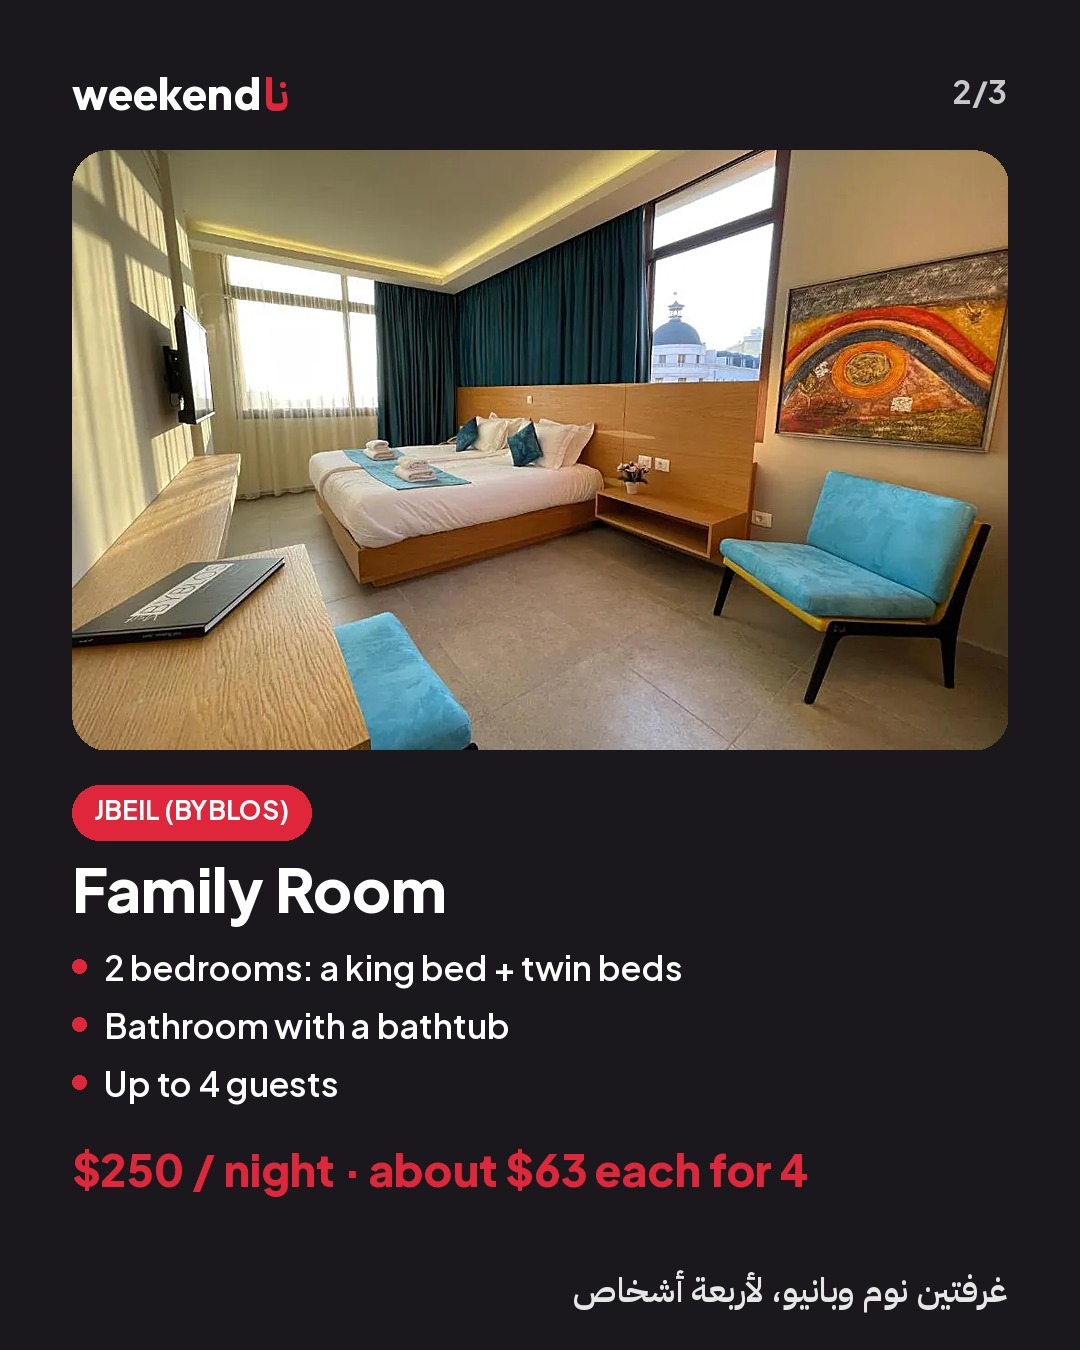
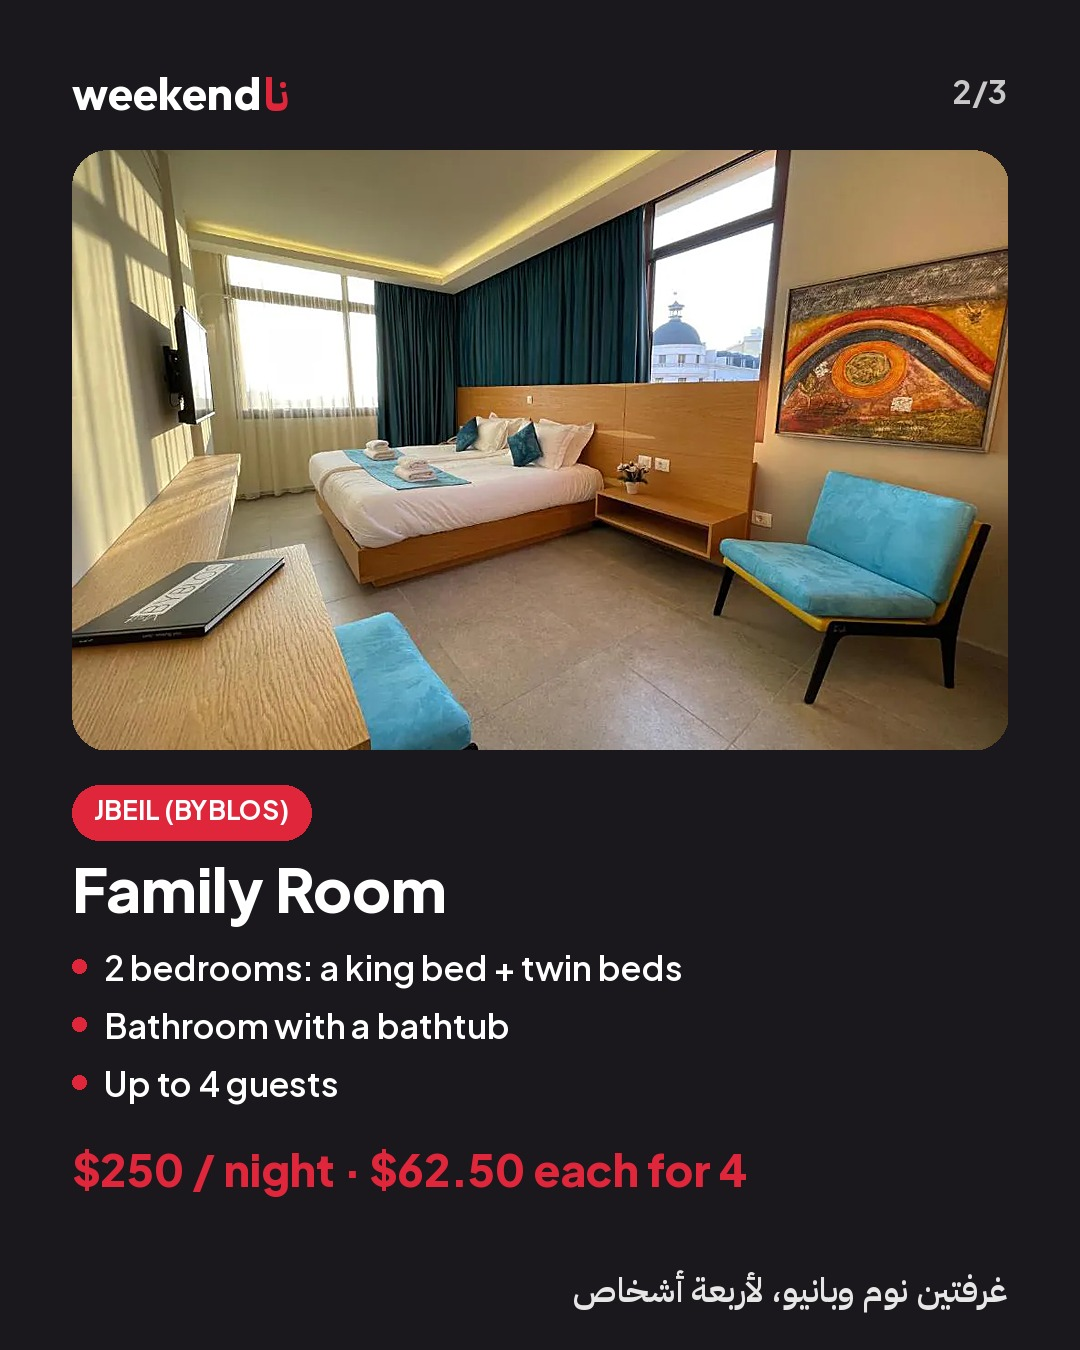
Majestic rooms: exact per-person price ($62.50)
Claude-Session: https://claude.ai/code/session_01QuaNDgCwiNitArRf8zRoH2

Changed region(s): [[0.3361, 0.84, 0.7639, 0.9022]]

diff --git a/tools/examples/make_majestic_rooms.py b/tools/examples/make_majestic_rooms.py
@@ -11,7 +11,7 @@ place_slide(P("45-01"), f"{OUT}/majrooms-2.jpg", 1, 3, "Majestic Room", "Jbeil (
             ["Twin or king-size bed + a sofa bed", "Private balcony", "More space than the Deluxe Room"], "$150 / night",
             "بلكون خاص وكنباية بتصير تخت")
 place_slide(P("46-01"), f"{OUT}/majrooms-3.jpg", 2, 3, "Family Room", "Jbeil (Byblos)",
-            ["2 bedrooms: a king bed + twin beds", "Bathroom with a bathtub", "Up to 4 guests"], "$250 / night · about $63 each for 4",
+            ["2 bedrooms: a king bed + twin beds", "Bathroom with a bathtub", "Up to 4 guests"], "$250 / night · $62.50 each for 4",
             "غرفتين نوم وبانيو، لأربعة أشخاص")
 place_slide(P("47-01"), f"{OUT}/majrooms-4.jpg", 3, 3, "Family Suite", "Jbeil (Byblos)",
             ["2 bedrooms + a separate living room", "Private balcony, Mediterranean views", "Up to 4 guests"], "$305 / night · about $76 each for 4",
